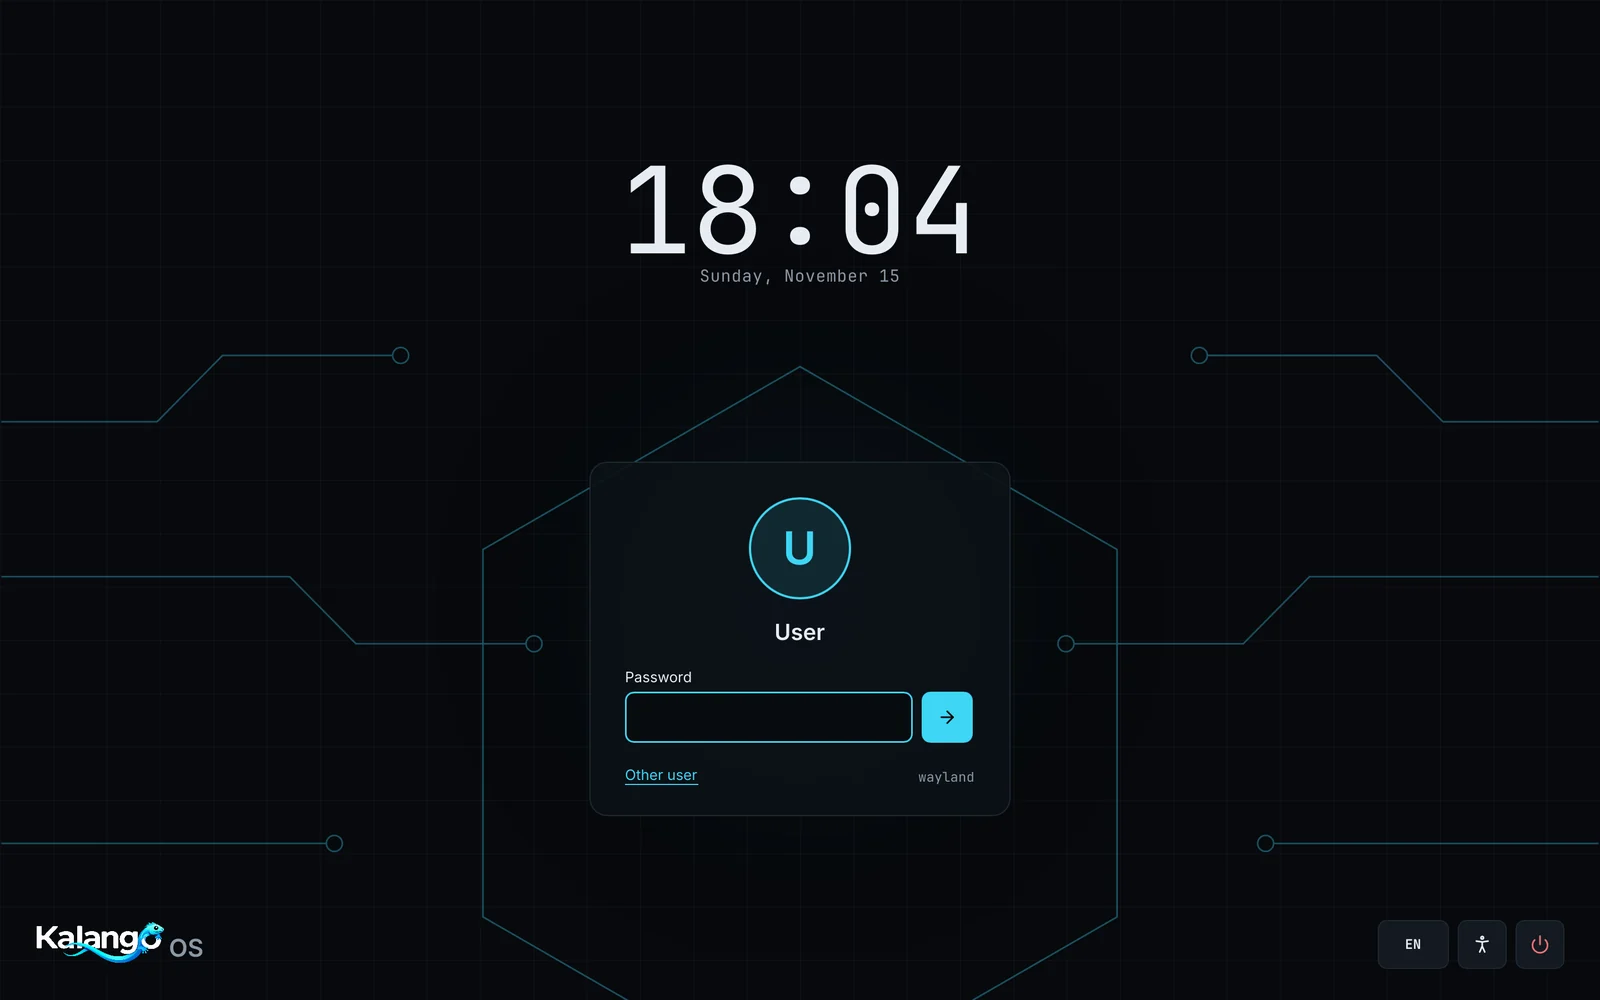
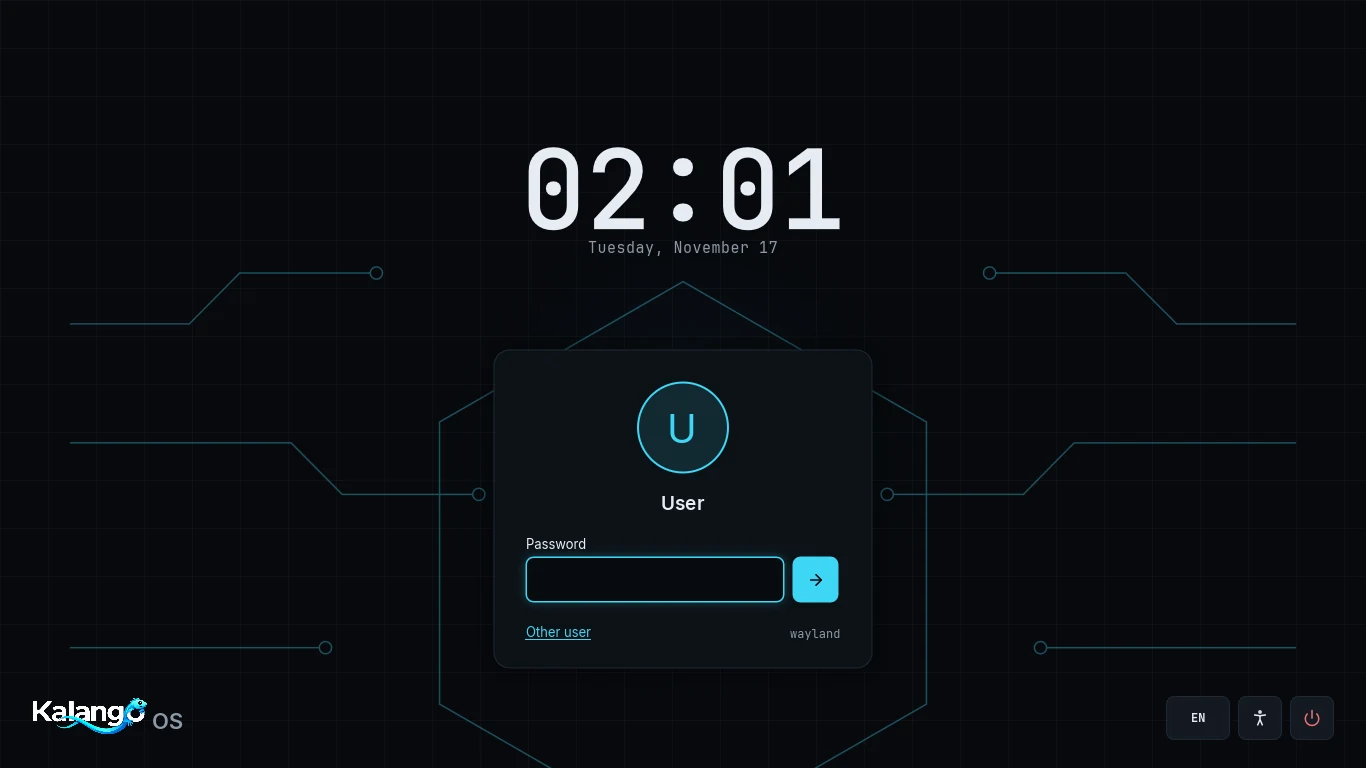
feat: capturas reais do sistema e navegação melhor
- Capturas do KalangOS real (notebook 1366×768) no lugar das do protótipo,
  sem dados pessoais; og.jpg recortado do desktop.
- Menu no celular (botão ☰, fecha com Esc ou ao escolher um link).
- Menu na mesma ordem das seções e seção atual destacada ao rolar.
- "Copiado!" anunciado para leitores de tela.

diff --git a/public/pt/index.html b/public/pt/index.html
@@ -28,12 +28,13 @@
 <header class="nav">
   <div class="wrap">
     <a class="brand" href="/pt/"><img src="/assets/img/icon-64.png" alt="">KalangOS</a>
-    <ul>
+    <button class="menu" type="button" aria-expanded="false" aria-controls="nav-links" aria-label="Menu" data-open="Menu" data-close="Fechar menu"><svg viewBox="0 0 24 24" aria-hidden="true"><path d="M4 7h16M4 12h16M4 17h16"/></svg></button>
+    <ul id="nav-links">
       <li><a href="#features">Recursos</a></li>
       <li><a href="#screenshots">Telas</a></li>
       <li><a href="#download">Baixar</a></li>
-      <li><a href="#community">Comunidade</a></li>
       <li><a href="#donate">Apoiar</a></li>
+      <li><a href="#community">Comunidade</a></li>
     </ul>
     <a class="lang" href="/" hreflang="en" lang="en" title="View in English">EN</a>
   </div>
@@ -56,7 +57,7 @@
       </a>
     </div>
     <p class="status"><b>●</b> Versão 0.1 em testes</p>
-    <div class="shot"><img src="/assets/img/desktop.webp" alt="Área de trabalho do KalangOS com o gerenciador de arquivos, um terminal e a dock" width="1600" height="1000"></div>
+    <div class="shot"><img src="/assets/img/desktop.webp" alt="Área de trabalho do KalangOS com a dock e o papel de parede do Kalango" width="1366" height="768"></div>
   </div>
 </section>
 
@@ -119,27 +120,20 @@
   <div class="wrap">
     <p class="label">Telas</p>
     <h2>Dê uma olhada</h2>
-    <p class="intro">Todas as telas abaixo são desenhadas pela própria área de trabalho do KalangOS.</p>
+    <p class="intro">Capturas reais do KalangOS rodando num notebook.</p>
     <div class="tabs" role="tablist" aria-label="Telas">
       <button role="tab" aria-selected="true" aria-controls="g-launcher">Menu de apps</button>
       <button role="tab" aria-selected="false" aria-controls="g-quick">Painel rápido</button>
       <button role="tab" aria-selected="false" aria-controls="g-appearance">Aparência</button>
-      <button role="tab" aria-selected="false" aria-controls="g-light">Tema claro</button>
       <button role="tab" aria-selected="false" aria-controls="g-displays">Monitores</button>
       <button role="tab" aria-selected="false" aria-controls="g-login">Tela de login</button>
     </div>
     <div class="gallery">
-      <figure id="g-launcher" role="tabpanel"><div class="shot"><img src="/assets/img/launcher.webp" alt="Menu de apps com os fixados e os arquivos recentes" width="1600" height="1000" loading="lazy"></div><figcaption>Aperte a tecla Super para buscar apps, arquivos e comandos.</figcaption></figure>
-      <figure id="g-quick" role="tabpanel" hidden><div class="shot"><img src="/assets/img/quick-settings.webp" alt="Painel rápido" width="1600" height="1000" loading="lazy"></div><figcaption>Volume, brilho, Wi-Fi, Bluetooth e energia a um clique da barra superior.</figcaption></figure>
-      <figure id="g-appearance" role="tabpanel" hidden><div class="shot"><img src="/assets/img/appearance.webp" alt="Configurações de aparência" width="1600" height="1000" loading="lazy"></div><figcaption>Temas, cores de destaque e papéis de parede mudam o sistema inteiro na hora.</figcaption></figure>
-      <figure id="g-light" role="tabpanel" hidden><div class="shot"><img src="/assets/img/light.webp" alt="Área de trabalho com o tema claro e destaque roxo" width="1600" height="1000" loading="lazy"></div><figcaption>Prefere claro? O tema claro está a um clique.</figcaption></figure>
-      <figure id="g-displays" role="tabpanel" hidden><div class="shot"><img src="/assets/img/displays.webp" alt="Configurações de monitores com duas telas" width="1600" height="1000" loading="lazy"></div><figcaption>Arrume vários monitores arrastando. Se a tela apagar, a mudança volta sozinha.</figcaption></figure>
-      <figure id="g-login" role="tabpanel" hidden><div class="shot"><img src="/assets/img/login.webp" alt="Tela de login" width="1600" height="1000" loading="lazy"></div><figcaption>Uma tela de login no mesmo estilo do resto do sistema.</figcaption></figure>
-    </div>
-    <div class="docks">
-      <figure><img src="/assets/img/dock-3d.webp" alt="Dock com ícones 3D e cantos de pílula" loading="lazy"><figcaption>Dock de vidro 3D</figcaption></figure>
-      <figure><img src="/assets/img/dock-tiles.webp" alt="Dock com ladrilhos coloridos" loading="lazy"><figcaption>Ladrilhos coloridos</figcaption></figure>
-      <figure><img src="/assets/img/dock-minimal.webp" alt="Dock mínima e transparente" loading="lazy"><figcaption>Mínima</figcaption></figure>
+      <figure id="g-launcher" role="tabpanel"><div class="shot"><img src="/assets/img/launcher.webp" alt="Menu de apps com os fixados e os arquivos recentes" width="1366" height="768" loading="lazy"></div><figcaption>Aperte a tecla Super para buscar apps, arquivos e comandos.</figcaption></figure>
+      <figure id="g-quick" role="tabpanel" hidden><div class="shot"><img src="/assets/img/quick-settings.webp" alt="Painel rápido" width="1366" height="768" loading="lazy"></div><figcaption>Volume, brilho, Wi-Fi, Bluetooth e energia a um clique da barra superior.</figcaption></figure>
+      <figure id="g-appearance" role="tabpanel" hidden><div class="shot"><img src="/assets/img/appearance.webp" alt="Configurações de aparência" width="1366" height="768" loading="lazy"></div><figcaption>Tema de vidro, OLED ou claro e seis cores de destaque mudam o sistema inteiro na hora.</figcaption></figure>
+      <figure id="g-displays" role="tabpanel" hidden><div class="shot"><img src="/assets/img/displays.webp" alt="Configurações de monitores" width="1366" height="768" loading="lazy"></div><figcaption>Arrume vários monitores arrastando. Se a tela apagar, a mudança volta sozinha.</figcaption></figure>
+      <figure id="g-login" role="tabpanel" hidden><div class="shot"><img src="/assets/img/login.webp" alt="Tela de login" width="1366" height="768" loading="lazy"></div><figcaption>Uma tela de login no mesmo estilo do resto do sistema.</figcaption></figure>
     </div>
   </div>
 </section>
@@ -254,6 +248,7 @@
   </div>
 </footer>
 
+<p class="sr-only" role="status" aria-live="polite" id="live"></p>
 <script src="/assets/js/site.js" defer></script>
 </body>
 </html>

diff --git a/public/index.html b/public/index.html
@@ -27,12 +27,13 @@
 <header class="nav">
   <div class="wrap">
     <a class="brand" href="/"><img src="/assets/img/icon-64.png" alt="">KalangOS</a>
-    <ul>
+    <button class="menu" type="button" aria-expanded="false" aria-controls="nav-links" aria-label="Menu" data-open="Menu" data-close="Close menu"><svg viewBox="0 0 24 24" aria-hidden="true"><path d="M4 7h16M4 12h16M4 17h16"/></svg></button>
+    <ul id="nav-links">
       <li><a href="#features">Features</a></li>
       <li><a href="#screenshots">Screenshots</a></li>
       <li><a href="#download">Download</a></li>
-      <li><a href="#community">Community</a></li>
       <li><a href="#donate">Donate</a></li>
+      <li><a href="#community">Community</a></li>
     </ul>
     <a class="lang" href="/pt/" hreflang="pt-BR" lang="pt-BR" title="Ver em português">PT</a>
   </div>
@@ -55,7 +56,7 @@
       </a>
     </div>
     <p class="status"><b>●</b> Version 0.1 in testing</p>
-    <div class="shot"><img src="/assets/img/desktop.webp" alt="KalangOS desktop with the file manager, a terminal and the dock" width="1600" height="1000"></div>
+    <div class="shot"><img src="/assets/img/desktop.webp" alt="KalangOS desktop with the dock and the Kalango wallpaper" width="1366" height="768"></div>
   </div>
 </section>
 
@@ -118,27 +119,20 @@
   <div class="wrap">
     <p class="label">Screenshots</p>
     <h2>Take a look around</h2>
-    <p class="intro">Every screen below is drawn by the KalangOS desktop itself.</p>
+    <p class="intro">Real screenshots of KalangOS running on a laptop.</p>
     <div class="tabs" role="tablist" aria-label="Screenshots">
       <button role="tab" aria-selected="true" aria-controls="g-launcher">App menu</button>
       <button role="tab" aria-selected="false" aria-controls="g-quick">Quick settings</button>
       <button role="tab" aria-selected="false" aria-controls="g-appearance">Appearance</button>
-      <button role="tab" aria-selected="false" aria-controls="g-light">Light theme</button>
       <button role="tab" aria-selected="false" aria-controls="g-displays">Displays</button>
       <button role="tab" aria-selected="false" aria-controls="g-login">Login</button>
     </div>
     <div class="gallery">
-      <figure id="g-launcher" role="tabpanel"><div class="shot"><img src="/assets/img/launcher.webp" alt="App menu with pinned apps and recent files" width="1600" height="1000" loading="lazy"></div><figcaption>Press the Super key to search apps, files and commands.</figcaption></figure>
-      <figure id="g-quick" role="tabpanel" hidden><div class="shot"><img src="/assets/img/quick-settings.webp" alt="Quick settings panel" width="1600" height="1000" loading="lazy"></div><figcaption>Volume, brightness, Wi-Fi, Bluetooth and power, one click from the top bar.</figcaption></figure>
-      <figure id="g-appearance" role="tabpanel" hidden><div class="shot"><img src="/assets/img/appearance.webp" alt="Appearance settings" width="1600" height="1000" loading="lazy"></div><figcaption>Themes, accent colors and wallpapers change the whole system instantly.</figcaption></figure>
-      <figure id="g-light" role="tabpanel" hidden><div class="shot"><img src="/assets/img/light.webp" alt="Desktop with the light theme and purple accent" width="1600" height="1000" loading="lazy"></div><figcaption>Prefer it bright? The light theme is one click away.</figcaption></figure>
-      <figure id="g-displays" role="tabpanel" hidden><div class="shot"><img src="/assets/img/displays.webp" alt="Display settings with two monitors" width="1600" height="1000" loading="lazy"></div><figcaption>Arrange multiple monitors by dragging them. Changes revert by themselves if the screen goes black.</figcaption></figure>
-      <figure id="g-login" role="tabpanel" hidden><div class="shot"><img src="/assets/img/login.webp" alt="Login screen" width="1600" height="1000" loading="lazy"></div><figcaption>A login screen that matches the rest of the system.</figcaption></figure>
-    </div>
-    <div class="docks">
-      <figure><img src="/assets/img/dock-3d.webp" alt="Dock with 3D icons and pill corners" loading="lazy"><figcaption>3D glass dock</figcaption></figure>
-      <figure><img src="/assets/img/dock-tiles.webp" alt="Dock with colored tiles" loading="lazy"><figcaption>Colored tiles</figcaption></figure>
-      <figure><img src="/assets/img/dock-minimal.webp" alt="Minimal transparent dock" loading="lazy"><figcaption>Minimal</figcaption></figure>
+      <figure id="g-launcher" role="tabpanel"><div class="shot"><img src="/assets/img/launcher.webp" alt="App menu with pinned apps and recent files" width="1366" height="768" loading="lazy"></div><figcaption>Press the Super key to search apps, files and commands.</figcaption></figure>
+      <figure id="g-quick" role="tabpanel" hidden><div class="shot"><img src="/assets/img/quick-settings.webp" alt="Quick settings panel" width="1366" height="768" loading="lazy"></div><figcaption>Volume, brightness, Wi-Fi, Bluetooth and power, one click from the top bar.</figcaption></figure>
+      <figure id="g-appearance" role="tabpanel" hidden><div class="shot"><img src="/assets/img/appearance.webp" alt="Appearance settings" width="1366" height="768" loading="lazy"></div><figcaption>Glass, OLED or light themes and six accent colors change the whole system instantly.</figcaption></figure>
+      <figure id="g-displays" role="tabpanel" hidden><div class="shot"><img src="/assets/img/displays.webp" alt="Display settings" width="1366" height="768" loading="lazy"></div><figcaption>Arrange multiple monitors by dragging them. Changes revert by themselves if the screen goes black.</figcaption></figure>
+      <figure id="g-login" role="tabpanel" hidden><div class="shot"><img src="/assets/img/login.webp" alt="Login screen" width="1366" height="768" loading="lazy"></div><figcaption>A login screen that matches the rest of the system.</figcaption></figure>
     </div>
   </div>
 </section>
@@ -253,6 +247,7 @@
   </div>
 </footer>
 
+<p class="sr-only" role="status" aria-live="polite" id="live"></p>
 <script src="/assets/js/site.js" defer></script>
 </body>
 </html>

diff --git a/public/assets/css/site.css b/public/assets/css/site.css
@@ -79,7 +79,25 @@ a:hover { text-decoration: underline; }
   border: 1px solid var(--border); border-radius: 8px; padding: 5px 10px;
 }
 .lang:hover { border-color: var(--accent); text-decoration: none; }
-@media (max-width: 760px) { .nav ul { display: none; } .lang { margin-left: auto; } }
+.nav ul a[aria-current="true"] { color: var(--accent); }
+.menu {
+  display: none; width: 40px; height: 40px; place-items: center; padding: 0;
+  background: var(--tile); color: var(--text); border: 1px solid var(--border); border-radius: 10px; cursor: pointer;
+}
+.menu svg { width: 20px; height: 20px; fill: none; stroke: currentColor; stroke-width: 2; stroke-linecap: round; }
+@media (max-width: 760px) {
+  .nav .wrap { gap: 12px; }
+  .lang { margin-left: auto; }
+  .menu { display: grid; order: 3; }
+  .nav ul {
+    display: none; position: absolute; top: 60px; left: 0; right: 0;
+    flex-direction: column; gap: 0; margin: 0; padding: 8px 16px 16px;
+    background: #07090df5; backdrop-filter: blur(12px); border-bottom: 1px solid var(--border);
+  }
+  .nav.open ul { display: flex; }
+  .nav ul a { display: block; padding: 12px 4px; font-size: 17px; }
+}
+.sr-only { position: absolute; width: 1px; height: 1px; overflow: hidden; clip: rect(0 0 0 0); white-space: nowrap; }
 
 /* ------------------------------------------------------------ botões */
 .btn {
@@ -154,10 +172,6 @@ section .intro { color: var(--muted); max-width: 640px; margin: 0 0 44px; font-s
 .gallery figcaption { color: var(--muted); font-size: 15px; margin-top: 14px; text-align: center; }
 .gallery .shot { margin: 0; }
 
-.docks { display: grid; gap: 16px; grid-template-columns: repeat(auto-fit, minmax(240px, 1fr)); margin-top: 16px; }
-.docks figure { margin: 0; border: 1px solid var(--border); border-radius: var(--radius); overflow: hidden; background: var(--panel); }
-.docks img { width: 100%; }
-.docks figcaption { padding: 10px 14px; font-size: 14px; color: var(--muted); }
 
 /* ------------------------------------------------------------ download */
 .download { display: grid; gap: 20px; grid-template-columns: 1.2fr 1fr; align-items: start; }

diff --git a/public/assets/js/site.js b/public/assets/js/site.js
@@ -39,6 +39,39 @@ document.querySelectorAll('button.copy').forEach((btn) => {
       area.remove();
     }
     btn.textContent = btn.dataset.done;
+    const live = document.getElementById('live');
+    if (live) live.textContent = btn.dataset.done;
     setTimeout(() => { btn.textContent = label; }, 2000);
   });
 });
+
+// Menu do celular: abre/fecha, fecha ao escolher um link ou com Esc.
+const nav = document.querySelector('.nav');
+const menuBtn = nav && nav.querySelector('.menu');
+if (menuBtn) {
+  const setOpen = (open) => {
+    nav.classList.toggle('open', open);
+    menuBtn.setAttribute('aria-expanded', open);
+    menuBtn.setAttribute('aria-label', open ? menuBtn.dataset.close : menuBtn.dataset.open);
+  };
+  menuBtn.addEventListener('click', () => setOpen(!nav.classList.contains('open')));
+  nav.querySelectorAll('ul a').forEach((a) => a.addEventListener('click', () => setOpen(false)));
+  document.addEventListener('keydown', (e) => {
+    if (e.key === 'Escape' && nav.classList.contains('open')) { setOpen(false); menuBtn.focus(); }
+  });
+}
+
+// Destaca no menu a seção que está na tela.
+const links = new Map([...document.querySelectorAll('.nav ul a[href^="#"]')]
+  .map((a) => [a.getAttribute('href').slice(1), a]));
+if ('IntersectionObserver' in window && links.size) {
+  const io = new IntersectionObserver((entries) => {
+    entries.forEach((en) => {
+      if (!en.isIntersecting) return;
+      links.forEach((a) => a.removeAttribute('aria-current'));
+      const a = links.get(en.target.id);
+      if (a) a.setAttribute('aria-current', 'true');
+    });
+  }, { rootMargin: '-45% 0px -50% 0px' });
+  links.forEach((_, id) => { const s = document.getElementById(id); if (s) io.observe(s); });
+}

diff --git a/README.md b/README.md
@@ -23,8 +23,9 @@ O `publicar.sh` nunca apaga `/apt` (repositório de atualizações), `/download`
 ## Como está organizado
 
 - Cores e fontes iguais às do sistema (`ui/theme.slint` do repositório principal).
-- As capturas em `public/assets/img/*.webp` saem do `cargo run --example snapshot` do
-  repositório principal (`target/snapshots/`), reduzidas para 1600 px de largura.
+- As capturas em `public/assets/img/*.webp` são do sistema real (notebook 1366×768, `grim`
+  pelo SSH), não do `examples/snapshot`, que desenha o protótipo. Antes de publicar, tire
+  dados pessoais (nome, arquivos recentes, redes Wi-Fi). O `og.jpg` é recorte do desktop.
 - Texto novo vai nas duas páginas. O inglês é a página principal.
 - Doação (seção `#donate`): PIX com QR Code gerado por `tools/gerar_pix.py` (BR Code
   estático, sem valor; precisa do `segno`). Mudou a chave: rode de novo e troque o código
